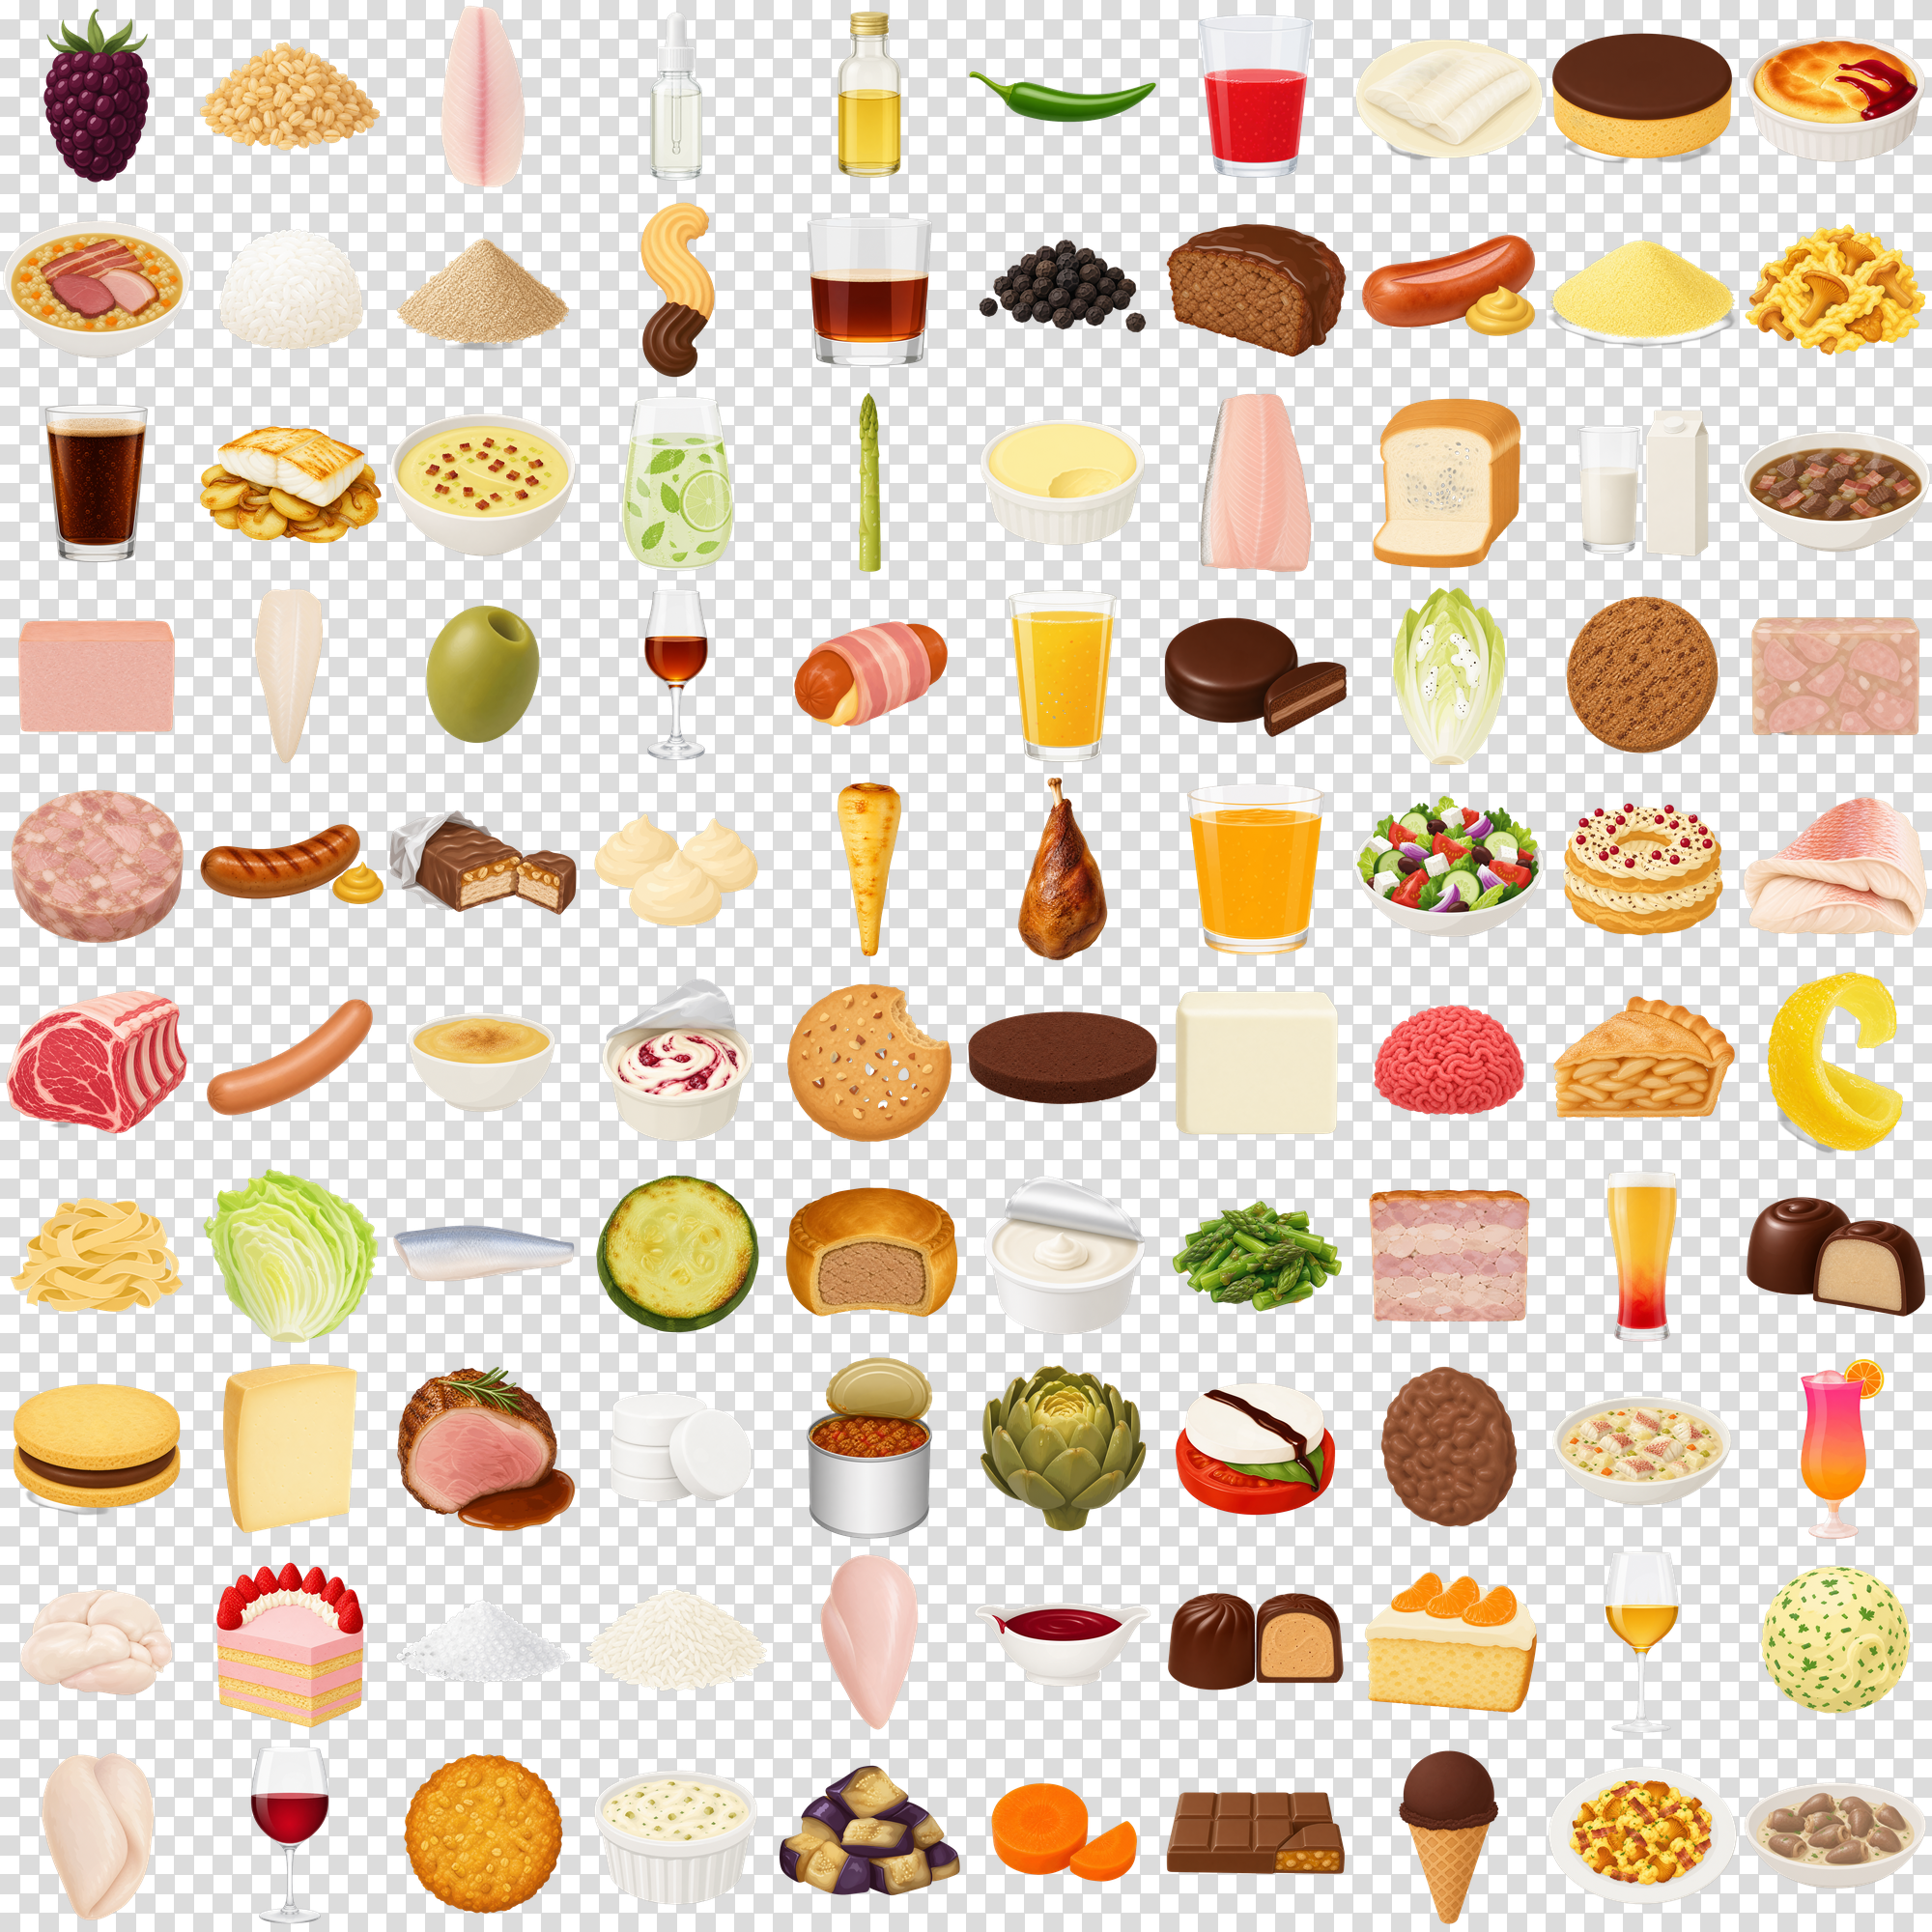
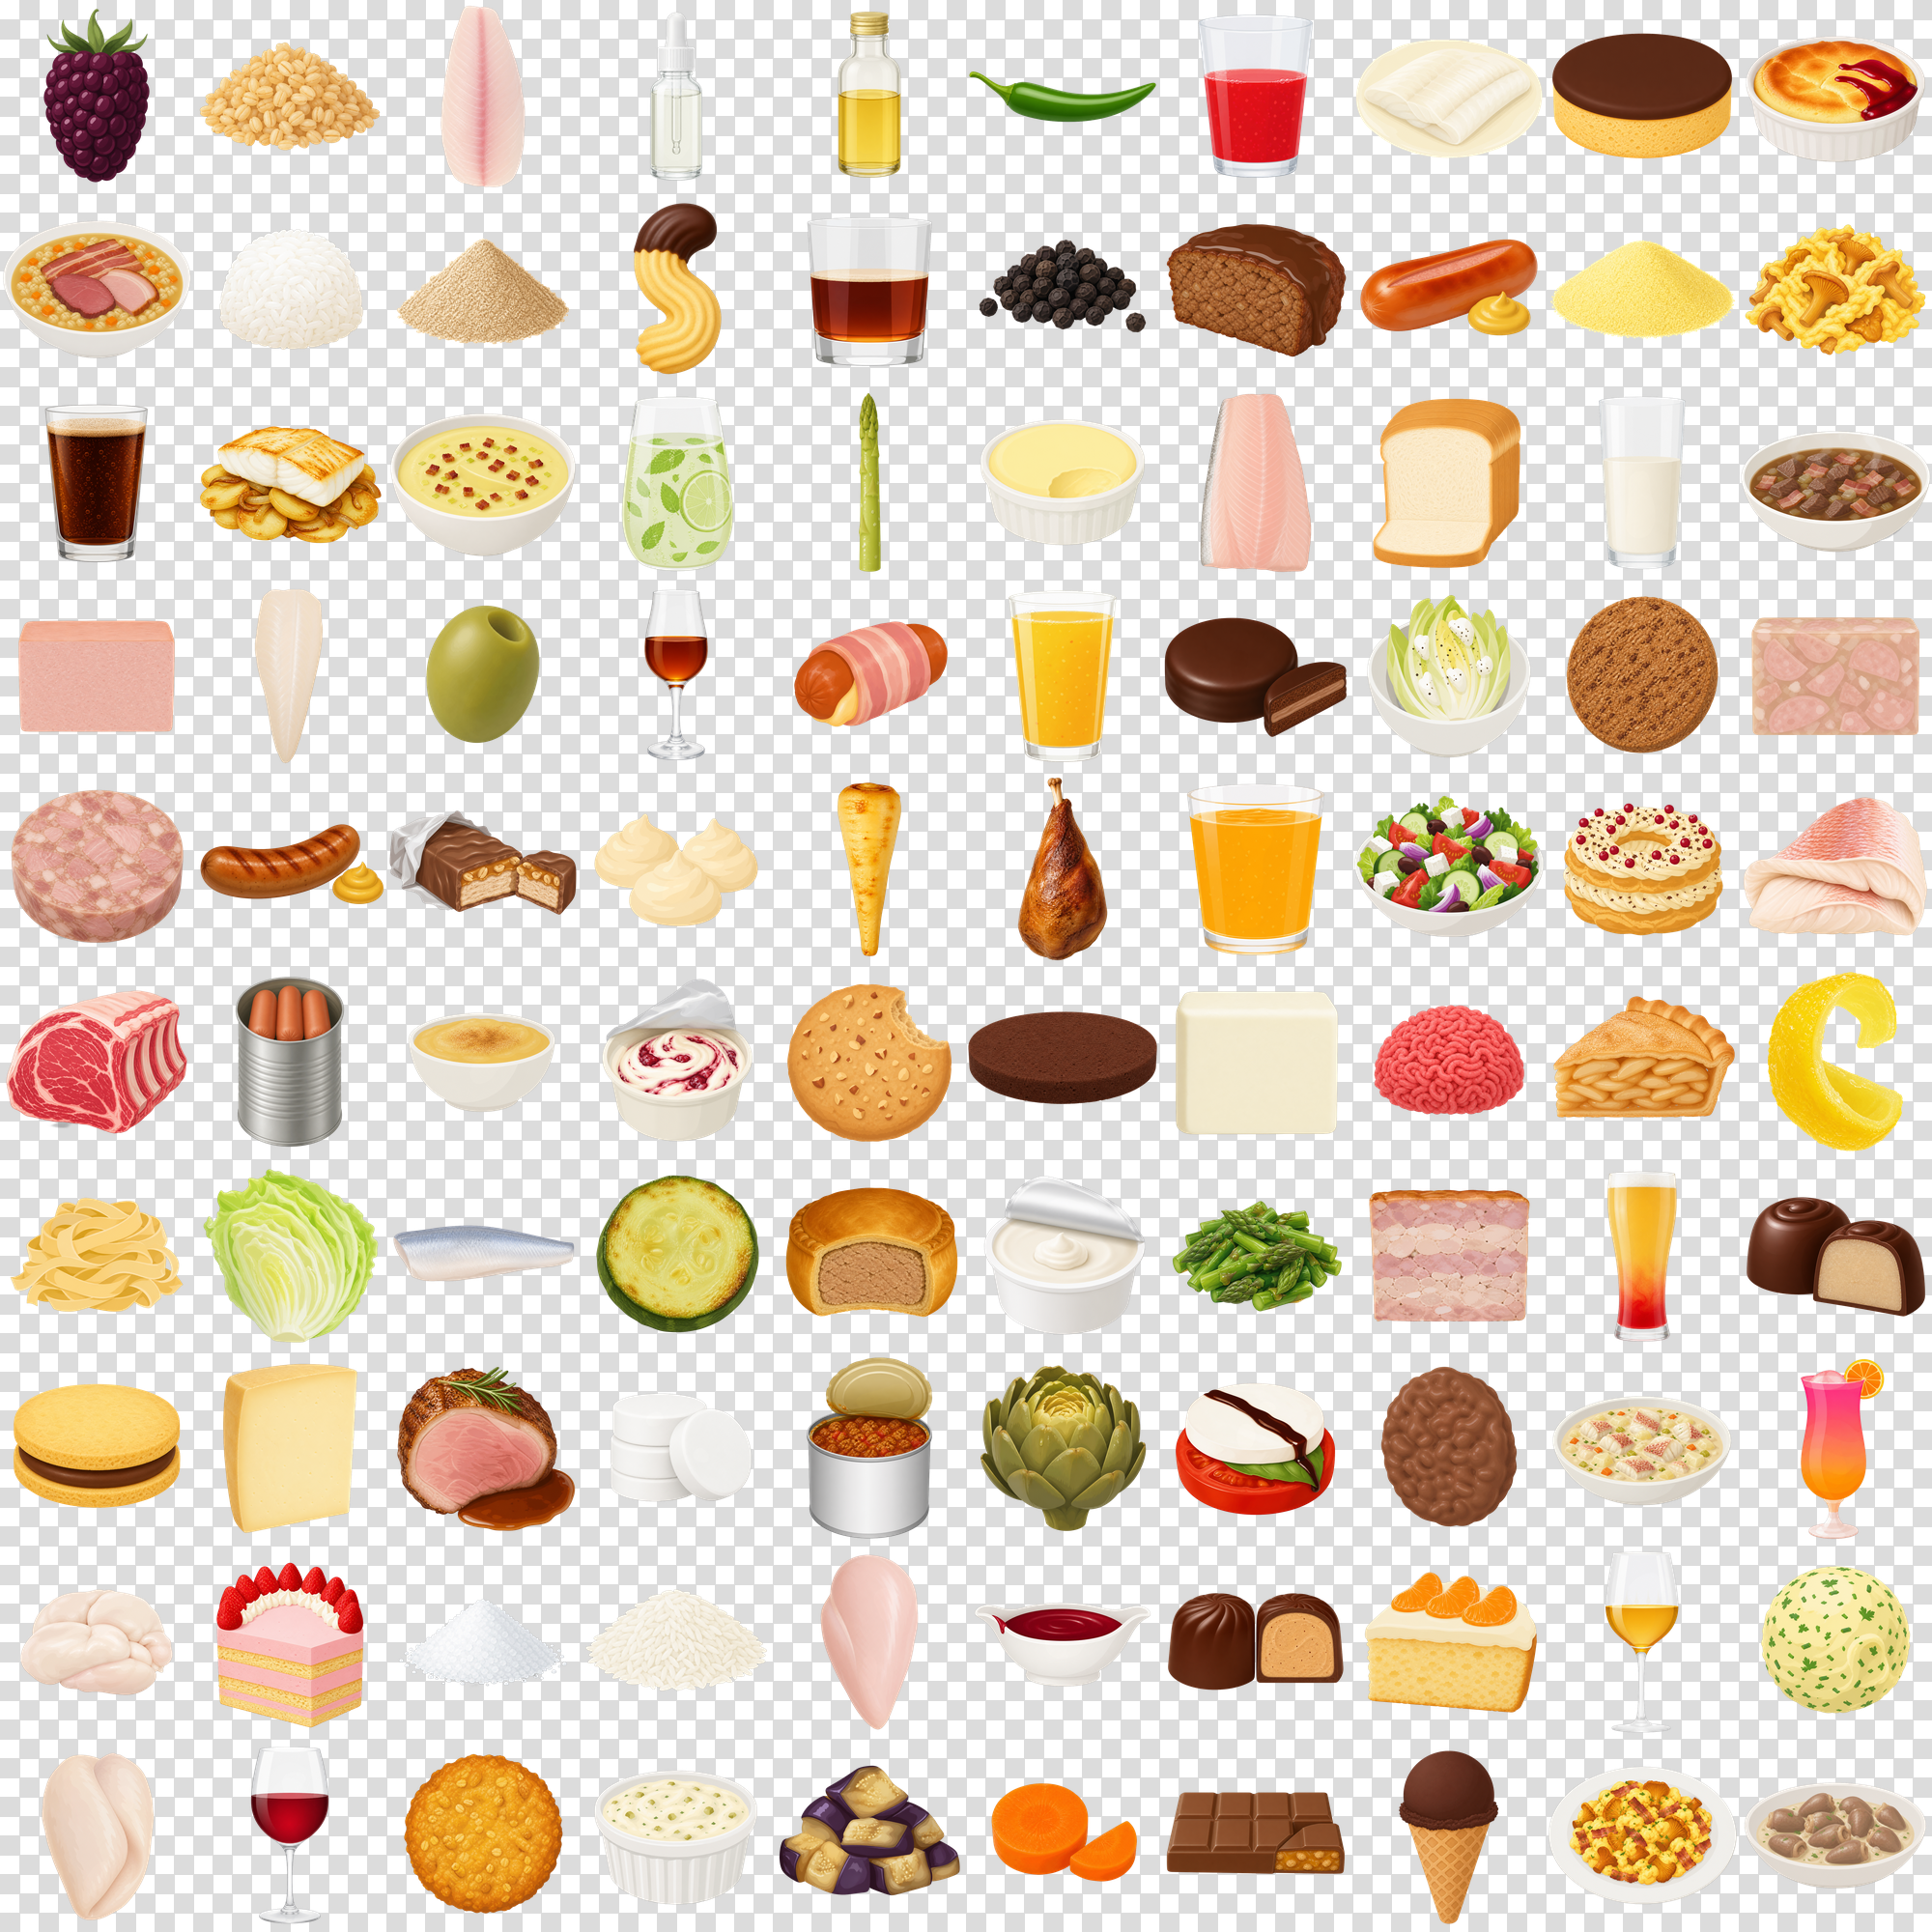
README: cover the manual review loop + iterative regen
Bake the review-and-iterate phase into the existing structure rather
than tacking on an "Update" section. Also bumps the bg-removal model
mention to A10G (was outdated as T4) and cites the post-generation
refinement tally.

Regenerates grid.png and grid_alpha.png so the README preview reflects
the post-review state.

diff --git a/README.md b/README.md
@@ -32,39 +32,6 @@ icon_path = f"icons_raw/{aliases[bls_code]}.png"
 
 Without `git lfs pull` you only get the metadata (~23 MB, clones in seconds).
 
-## Known limitations
-
-A small fraction of the icons contain hallucinations — e.g. a sausage that the
-model rendered as two pieces, a "canned" product without the can shown,
-double-stacked items, or anatomically odd cuts of meat. The image model is
-non-deterministic and occasionally ignores parts of its prompt.
-
-I'm working through the dataset by hand to spot these and regenerate them with
-sharper prompts. If you find one that's clearly wrong, open an issue (see
-[CONTRIBUTING.md](CONTRIBUTING.md)) with the icon code and I'll add it to the
-queue. Already fixed: `Y945032` (Rostbratwurst mit Senf).
-
-## Regenerate or extend
-
-```bash
-# companion repo: prompter + image-gen + style spec
-git clone ssh://[email redacted]:2222/moritz/act-img-gen.git ../act-img-gen
-
-# local deps
-pip install -r requirements.txt
-pip install -r ../act-img-gen/requirements.txt
-
-# OpenAI key for prompter + image gen
-echo "OPENAI_API_KEY=sk-..." > ../act-img-gen/.env
-
-# end-to-end run (~$22, batch completes in <24 h)
-python run_pipeline.py --skip-modal
-
-# optional second stage: transparent backgrounds via Modal T4 GPUs (~$0.70)
-modal token new
-python -m modal run modal_postprocess.py
-```
-
 ## Dataset
 
 | | |
@@ -84,28 +51,110 @@ method (raw, cooked, fried, ...) onto a shared icon. Lookup at app runtime:
 icon_path = f"icons/{aliases[bls_code]}.png"
 ```
 
-## Workflow
+## How it was made
+
+The dataset was built in two phases: a one-shot generation pass for the
+initial 4987 icons, then a manual review loop that refined ~22 % of them
+based on per-item visual feedback.
+
+### Phase 1: initial generation
 
 1. **Source.** BLS 4.0 Excel parsed via `openpyxl`, 7140 items.
-2. **Deduplication.** Regex-strip preparation suffixes from item names → 4987
-   canonical icons. `aliases.csv` keeps the full mapping so any BLS code can
-   resolve to its icon.
-3. **Prompt generation.** Per item, `gpt-5-mini` reads the German + English name
-   and the style spec (`comic_v4.md` in [act-img-gen](https://git.moritz.run/moritz/act-img-gen))
-   and returns an image prompt. Sync API call, ~3 cents per 100 items.
-4. **Image generation.** `gpt-image-2` at quality `low`, 1024×1024, via the
-   OpenAI Batch API (50% discount, async with 24h window). Output is a PNG with
-   white background. ~$22 for the full 4987-item run.
-5. **Background removal (optional).** `BiRefNet-massive` via the `rembg` library,
-   run on Modal serverless **T4 GPUs**. ~$0.70 and ~30 min wall time for 4987
-   icons. Local Pascal-class GPUs (e.g. GTX 1080) hit cuDNN-frontend issues, hence
-   the Modal route.
+2. **Deduplication.** Regex-strip preparation suffixes from item names →
+   4987 canonical icons. `aliases.csv` keeps the full mapping so any BLS
+   code can resolve to its icon.
+3. **Prompt generation.** Per item, `gpt-5-mini` reads the German + English
+   name and the style spec (`comic_v4.md` in
+   [act-img-gen](https://git.moritz.run/moritz/act-img-gen)) and returns
+   an image prompt. Sync API call, ~3 cents per 100 items.
+4. **Image generation.** `gpt-image-2` at quality `low`, 1024×1024, via
+   the OpenAI Batch API (50 % discount, async with 24 h window). Output
+   is a PNG with white background. ~$22 for the full 4987-item run.
+5. **Background removal.** `BiRefNet-massive` via the `rembg` library,
+   run on Modal serverless A10G GPUs. ~$0.25 and ~10–12 min wall time
+   for 4987 icons.
 6. **Output.** White-bg PNGs in `icons_raw/`, transparent PNGs in `icons/`.
 
-The orchestrator `run_pipeline.py` chains all steps with retries, idempotent
-resume, full logging to `pipeline.log`, and synchronous regeneration for items
-that hit OpenAI's image moderation (raw animal products occasionally trigger
-false-positive `safety_violations=[sexual]`).
+The orchestrator `run_pipeline.py` chains all steps with retries,
+idempotent resume, full logging to `pipeline.log`, and synchronous
+regeneration for items that hit OpenAI's image moderation (raw animal
+products occasionally trigger false-positive `safety_violations=[sexual]`).
+
+### Phase 2: manual review + iterative regeneration
+
+Every icon was hand-reviewed using `tools/review.py`, a Tkinter app that
+shows three side-by-side panels per item — PIL flood-fill alpha, BiRefNet
+alpha, and the raw white-bg image — plus the prompt that produced them.
+For each item the reviewer chose which alpha-removal method came out
+better, optionally flagged image hallucinations with a one-line note
+("Buttermilch ist eingebacken, nicht zu sehen"), or marked the item as
+"both bad" for full regen.
+
+The flagged items then went through a small pipeline:
+
+1. **`tools/swap_pil_alphas.py`** — for items where the reviewer picked
+   "PIL flood-fill better", swap `icons/<code>.png` to a fresh
+   full-resolution flood-fill mask. Cheap; no image regen needed.
+2. **`tools/prepare_round2.py`** — for items with specific feedback, ask
+   `gpt-5-mini` to rewrite the original prompt incorporating the German
+   reviewer note. The trailing style block stays verbatim.
+3. **`tools/run_round2_batch.py`** — submit a fresh OpenAI image batch
+   for all flagged items, snapshotting the prior images first so the
+   review tool can show "before" thumbnails next round.
+4. **`tools/run_round2_finalize.py`** — sync the new images back into
+   `icons_raw/`, delete the stale alphas, re-run Modal bg-removal.
+5. **`tools/migrate_review_for_round2.py`** — move the resolved review
+   entries into `review_history` and reset the navigation set so the
+   reviewer only sees newly-regenerated items in the next pass.
+
+After two iteration rounds plus a small batch of manual swaps and
+canonical-image dedups, the dataset stabilised. Final tally of
+post-generation refinements:
+
+| Action | Items | Note |
+|---|---|---|
+| PIL-flood-fill alpha swap | 489 | BiRefNet's mask was worse than naïve flood-fill |
+| Prompt rewrite + image regen (round 2) | 574 | gpt-5-mini rewrote prompt from reviewer feedback |
+| Prompt rewrite + image regen (round 3) | 38 | further iteration on still-wrong items |
+| Dedup to canonical image | 16 | white-powder items (flour, starch, milk powder) → `C213200` |
+| Revert to round-1 image | 5 | regen came out worse than the original |
+| Manual image swap | 6 | toast variants, milk containers, grape juice |
+| **Total refined** | **1128** | ~22 % of the 4987 icons |
+
+Total post-generation cost: ~$2.66 (OpenAI prompter $0.18, image batch
+$2.40, Modal A10G $0.08).
+
+## Regenerate or extend
+
+```bash
+# companion repo: prompter + image-gen + style spec
+git clone ssh://[email redacted]:2222/moritz/act-img-gen.git ../act-img-gen
+
+# local deps
+pip install -r requirements.txt
+pip install -r ../act-img-gen/requirements.txt
+
+# OpenAI key for prompter + image gen
+echo "OPENAI_API_KEY=sk-..." > ../act-img-gen/.env
+
+# end-to-end run (~$22 + ~$0.25 Modal, completes in <24 h)
+python run_pipeline.py
+```
+
+To run the review loop on your own copy, install `Pillow`, then:
+
+```bash
+python tools/review.py     # Tkinter window; state persists in review.json
+```
+
+## Models
+
+| Step | Model | Mode | Approx. cost (full 4987-item run) |
+|---|---|---|---|
+| Prompter | `gpt-5-mini` (`reasoning_effort=minimal`) | sync | ~$1 |
+| Image gen | `gpt-image-2` quality `low` | OpenAI Batch | ~$22 |
+| Background removal | `BiRefNet-massive` (rembg) | Modal A10G GPU | ~$0.25 |
+| Feedback-driven prompt rewrite | `gpt-5-mini` | sync | ~$0.0004 / item |
 
 ## Repo layout
 
@@ -116,29 +165,39 @@ false-positive `safety_violations=[sexual]`).
 ├── run_pipeline.py         end-to-end orchestrator (entry point)
 ├── modal_postprocess.py    Modal entry point for background removal
 ├── grid.png                README preview (regenerable via tools/make_grid.py)
+├── grid_alpha.png          transparent variant of the same grid
 ├── icons_raw/              white-bg PNGs (LFS)
 ├── icons/                  transparent PNGs after bg removal (LFS)
 └── tools/
-    ├── sync_icons.py       copies act-img-gen output → icons_raw/
-    ├── build_viewer.py     builds index.html (gitignored, run locally)
-    ├── make_grid.py        regenerates grid.png
-    └── fix_missing.py      sync regen for items missing from icons_raw/
+    ├── sync_icons.py                    copies act-img-gen output → icons_raw/
+    ├── build_viewer.py                  builds index.html (gitignored, run locally)
+    ├── make_grid.py                     regenerates grid.png / grid_alpha.png
+    ├── fix_missing.py                   sync regen for items missing from icons_raw/
+    ├── review.py                        interactive review GUI (Tkinter)
+    ├── swap_pil_alphas.py               recompute PIL-flood-fill alphas at full res
+    ├── prepare_round2.py                feedback-aware prompt rewriter
+    ├── run_round2_batch.py              submit OpenAI image batch for flagged items
+    ├── run_round2_finalize.py           sync + drop stale alphas + Modal bg-removal
+    ├── migrate_review_for_round2.py     prepare review.json for the next round
+    └── stash_round1.py                  extract prior-round images from git LFS
 ```
 
-## Models
-
-| Step | Model | Mode | Cost (full run) |
-|---|---|---|---|
-| Prompter | `gpt-5-mini` (`reasoning_effort=minimal`) | sync | ~$1 |
-| Image gen | `gpt-image-2` quality `low` | OpenAI Batch | ~$22 |
-| Background removal | `BiRefNet-massive` (rembg) | Modal T4 GPU | ~$0.70 |
+The `round2` in the script names is a historical artefact — the same
+scripts handle round 3, round 4, …; each invocation just operates on
+whatever's currently flagged in `review.json`.
 
 ## Storage
 
-Icons are stored via **Git LFS** (`*.png` in `icons/` and `icons_raw/`). A plain
-`git clone` only fetches the small text/CSV files; binaries arrive on first
-checkout (or `git lfs pull`). The repo itself stays small enough to clone in
-seconds.
+Icons are stored via **Git LFS** (`*.png` in `icons/` and `icons_raw/`).
+A plain `git clone` only fetches the small text/CSV files; binaries
+arrive on first checkout (or `git lfs pull`). The repo itself stays
+small enough to clone in seconds.
+
+The pre-review v1 dataset is preserved at tag `v1.0`:
+
+```bash
+git checkout v1.0       # or: git lfs pull --include='icons/*' --revision v1.0
+```
 
 ## License
 